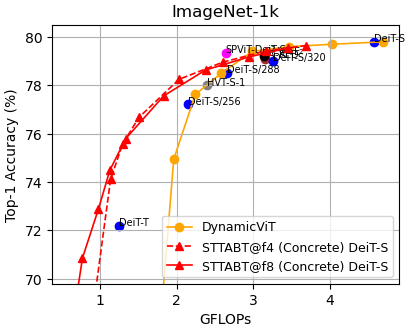
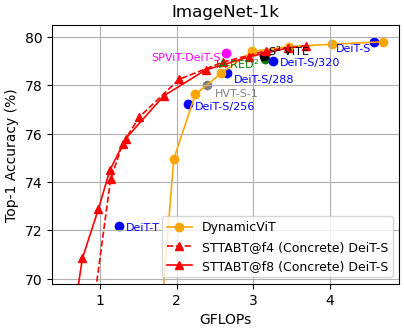
update flops plot

diff --git a/main/plot/vit_concrete_flops.py b/main/plot/vit_concrete_flops.py
@@ -11,32 +11,33 @@ from trainer import vit_concrete_trainer as vit_concrete
 
 COLOR_DEIT = 'blue'
 COLOR_SPVIT = 'magenta'
-COLOR_IA = 'brown'
+COLOR_IA = 'green'
 COLOR_S2 = 'black'
 COLOR_HVT = 'gray'
 
 def load_points():
-    #return [flops] [accuracy] [name] [color]
+    #return [flops] [accuracy] [name] [color] [offset(x, y)]
+    # we left only baselines that derived from DeiT-S, not others
     ret = [
         #from SPViT paper
-        (1.24, 72.2, 'DeiT-T', COLOR_DEIT),
+        (1.24, 72.2, 'DeiT-T', COLOR_DEIT, (0.1,-0.2)),
         # (1.0, 72.2, 'SPViT-DeiT-T'),
         # (2.13, 75.00, 'T2T-ViT-10'),
         # (0.93, 72.0, 'PS-ViT'),
         # (0.95, 70.12, 'S$^2$ViTE'),
 
-        (4.58, 79.8, 'DeiT-S', COLOR_DEIT),
-        (2.64, 79.34, 'SPViT-DeiT-S', COLOR_SPVIT),
-        (3.15, 79.1, 'IA-RED$^2$', COLOR_IA),
-        (3.14, 79.22, 'S$^2$ ViTE', COLOR_S2),
-        (2.4, 78.00, 'HVT-S-1', COLOR_HVT),
+        (4.58, 79.8, 'DeiT-S', COLOR_DEIT, (-0.5,-0.4)),
+        (2.64, 79.34, 'SPViT-DeiT-S', COLOR_SPVIT, (-0.97,-0.3)),
+        (3.15, 79.1, 'IA-RED$^2$', COLOR_IA, (-0.65,-0.4)),
+        (3.14, 79.22, 'S$^2$ ViTE', COLOR_S2, (0.05,0)),
+        (2.4, 78.00, 'HVT-S-1', COLOR_HVT, (0.1,-0.45)),
         
-        (3.25, 79.0, 'DeiT-S/320', COLOR_DEIT),
-        # (2.00, 78.65, 'SPViT-DeiT-S/320'), # this removed since it is not originate from DeiT.
+        (3.25, 79.0, 'DeiT-S/320', COLOR_DEIT, (0.1,-0.2)),
+        # (2.00, 78.65, 'SPViT-DeiT-S/320'),
         
-        (2.65, 78.53, 'DeiT-S/288', COLOR_DEIT),
+        (2.65, 78.53, 'DeiT-S/288', COLOR_DEIT, (0.1,-0.4)),
         
-        (2.14, 77.21, 'DeiT-S/256', COLOR_DEIT),
+        (2.14, 77.21, 'DeiT-S/256', COLOR_DEIT, (0.1,-0.2)),
         # (1.29, 76.87, 'SPViT-DeiT-T/256'),
     ]
     return ([ret[j][i] for j in range(len(ret))] for i in range(len(ret[0])))
@@ -140,7 +141,7 @@ def main(fig_scales=[1.0, 0.7]):
     xs_concrete, ys_concrete, xs_concrete_ema, ys_concrete_ema = load_concrete(factor=4)
     xs_concrete_f8, ys_concrete_f8, xs_concrete_ema_f8, ys_concrete_ema_f8 = load_concrete(factor=8)
 
-    xs_other, ys_other, labels_other, colors_other = load_points()
+    xs_other, ys_other, labels_other, colors_other, offsets_other = load_points()
 
     def _render(fig_scale):
         plt.clf()
@@ -164,8 +165,12 @@ def main(fig_scales=[1.0, 0.7]):
             )
         
         for i, txt in enumerate(labels_other):
+            ox, oy = offsets_other[i]
             plt.scatter(xs_other[i], ys_other[i], color=colors_other[i])
-            ax.annotate(txt, (xs_other[i], ys_other[i]), fontsize=7)
+            ax.annotate(
+                txt, (xs_other[i] + ox, ys_other[i] + oy), 
+                fontsize=8, color=colors_other[i], zorder=10000
+            )
         
         plt.legend(prop={'size': 9})
         plt.title(f'{STR_IMAGENET_1K}', fontsize=12)

diff --git a/thrid_party/DynamicViT/optim_factory.py b/thrid_party/DynamicViT/optim_factory.py
@@ -103,10 +103,10 @@ def get_parameter_groups(model, weight_decay=1e-5, skip_list=(), get_num_layer=N
         if group_name not in parameter_group_names:
             if get_layer_scale is not None:
                 scale = get_layer_scale(layer_id)
-            if group_name is 'decay':
+            if group_name == 'decay':
                 scale = bone_lr_scale
                 fix_step = old_wegiht_fix_epochs
-            elif group_name is 'no_decay':
+            elif group_name == 'no_decay':
                 scale = bone_lr_scale
                 fix_step = old_wegiht_fix_epochs
             else:
